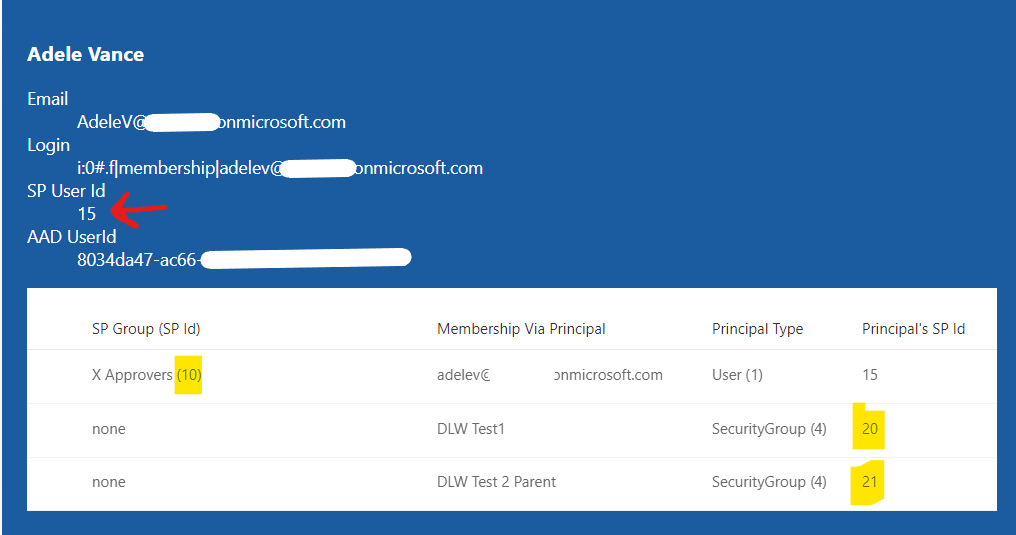
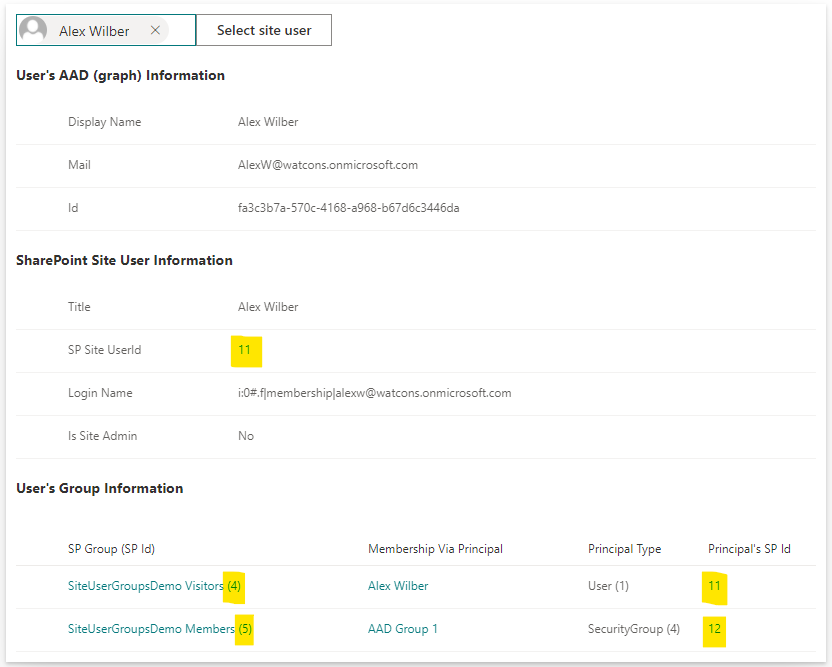
Updated README and images.

diff --git a/README.md b/README.md
@@ -1,8 +1,10 @@
-# user-group-info
+# Site User and Group Information
 
 ## Summary
 
-Web Part that displays SharePoint user ids for the current user and any Active AD groups they are a member of which are known to the SharePoint site.
+Looks up the SharePoint site user/group ids related to a user. Azure AD groups that the user belongs to, and which are known to the SharePoint site, are also displayed.
+
+Note: Azure AD Groups are represented as Site Users in SharePoint.
 
 ## Used SharePoint Framework Version
 
@@ -17,19 +19,19 @@ Web Part that displays SharePoint user ids for the current user and any Active A
 
 ## Prerequisites
 
-Access to a SharePoint online site with various users granted access to various resources directory, via AAD groups and via SharePoint groups.
+Access to a SharePoint online site with various tenant users granted access to various site resources directly, via AAD groups and via SharePoint groups.
 
 ## Solution
 
-| Solution      | Author(s)                                                                                               |
-| ------------- | ------------------------------------------------------------------------------------------------------- |
-| UserGroupInfo | Daniel Watford (https://twitter.com/DanWatford), Watford Consulting Ltd (https://watfordconsulting.com) |
+| Solution                  | Author(s)                                                                                               |
+| ------------------------- | ------------------------------------------------------------------------------------------------------- |
+| react-sp-site-user-groups | Daniel Watford (https://twitter.com/DanWatford), Watford Consulting Ltd (https://watfordconsulting.com) |
 
 ## Version history
 
 | Version | Date              | Comments        |
 | ------- | ----------------- | --------------- |
-| 0.0.1   | September 2, 2020 | Initial release |
+| 0.0.1   | September 8, 2020 | Initial release |
 
 ## Disclaimer
 
@@ -51,33 +53,35 @@ Access to a SharePoint online site with various users granted access to various 
 
 ## Features
 
-This webpart was created to better understand the relationship between AAD users, AAD groups, SP User and SP Groups.
+This webpart was created to better understand the relationship between AAD users, AAD groups, SP User and SP Groups. In particular I was interested in how SP site user/group ids are mapped to the 4 principal types so that I might match a user against values entered in a SP People column which also accepted group values.
 
 Experiment by granting permissions directly to some users for a site, directly to an AAD group for a site, and to a SP group where the membership consists of the AAD user or nested AAD groups.
 
-This webpart was created to help understand the Id values that are read from a Person column in a List View Command Set extensions.
+Pick a user to retrieve information for by either searching for the user in the tenant-wide People Picker, or by choosing from the site's current set of users.
 
-## Display current user's membership of AAD and SP groups
+For the principals found that relate to a user links are provided to the relevant site user/group view.
 
-Note the highlighted SP User Ids.
-![MyTasks](assets/screen1.png)
+## Display user's membership of AAD and SP groups
 
-## SharePoint Group Display
+When the webpart is first loaded the current user is selected.
 
-To view details of a SharePoint user (which appears to include synchronised AAD groups) or a SharePoint group visit https://_tenant_.sharepoint.com/site/_sitename_/_layouts/userdisp.aspx?ID=20, altering the ID value to match one of the SP Ids displayed by the webpart.
+Details of the user's membership of SP and AAD groups are shown, along with corresponding SP site user/group ids (highlighted).
+![MyTasks](./assets/screen1.png)
 
-When visiting the URL you will likely be redirected one of the following types of views:
+## Select User
 
-- Details of a SharePoint group with a list of group members.
-- Details of a SharePoint user which represents an AAD group.
-- Delve view of the SharePoint user's profile.
+The user can be selected from the tenant-wide People Picker control.
+Click the X to clear the currently selected user and then start typing the name of the next user. The People Picker will search across all tenant users as you type.
+![MyTasks](./assets/screen2.png)
 
-In the following screenshop the highlighted SP Group Id in the URL corresponds to the X Approvers group Id shown in the webpart.
-![MyTasks](assets/screen2.png)
-
-The next screenshop shows the SharePoint User Information view which corresponds to an AAD group.
-![MyTasks](assets/screen3.png)
+You can also select a user from the current set of site users.
+Click on the /Select site user/ button and choose a user from the list displayed on the panel.
+![MyTasks](./assets/screen3.png)
 
 ## References
 
 - [User profile synchronization](https://docs.microsoft.com/en-us/sharepoint/user-profile-sync)
+
+---
+
+<img src="https://telemetry.sharepointpnp.com/sp-dev-fx-webparts/samples/react-sp-site-user-groups" />
